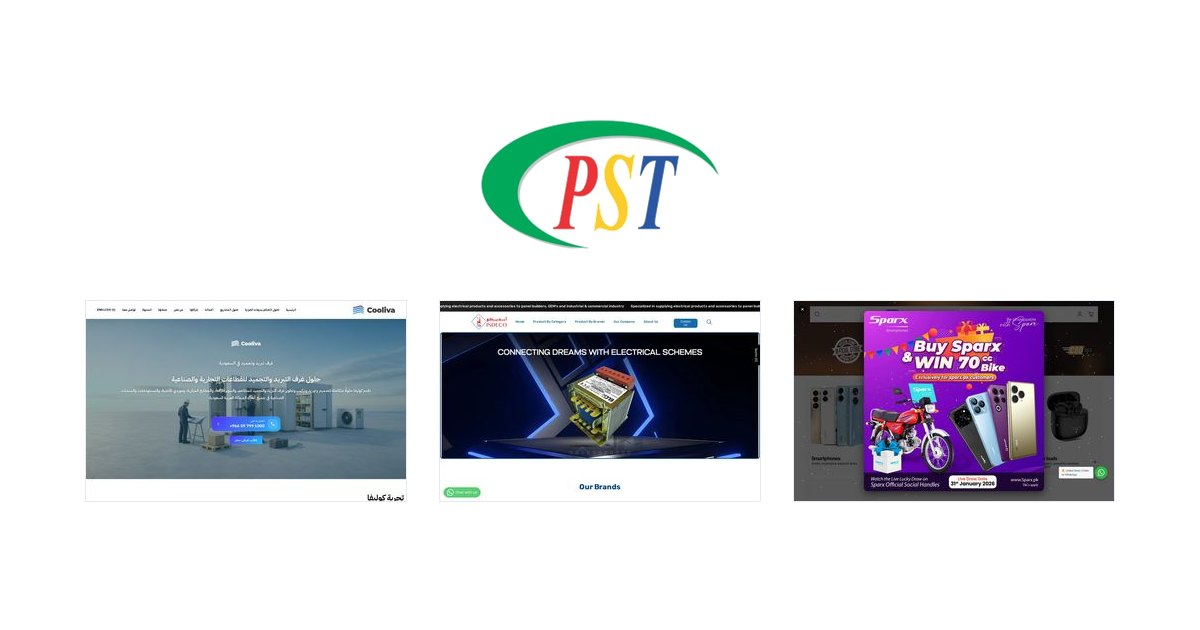
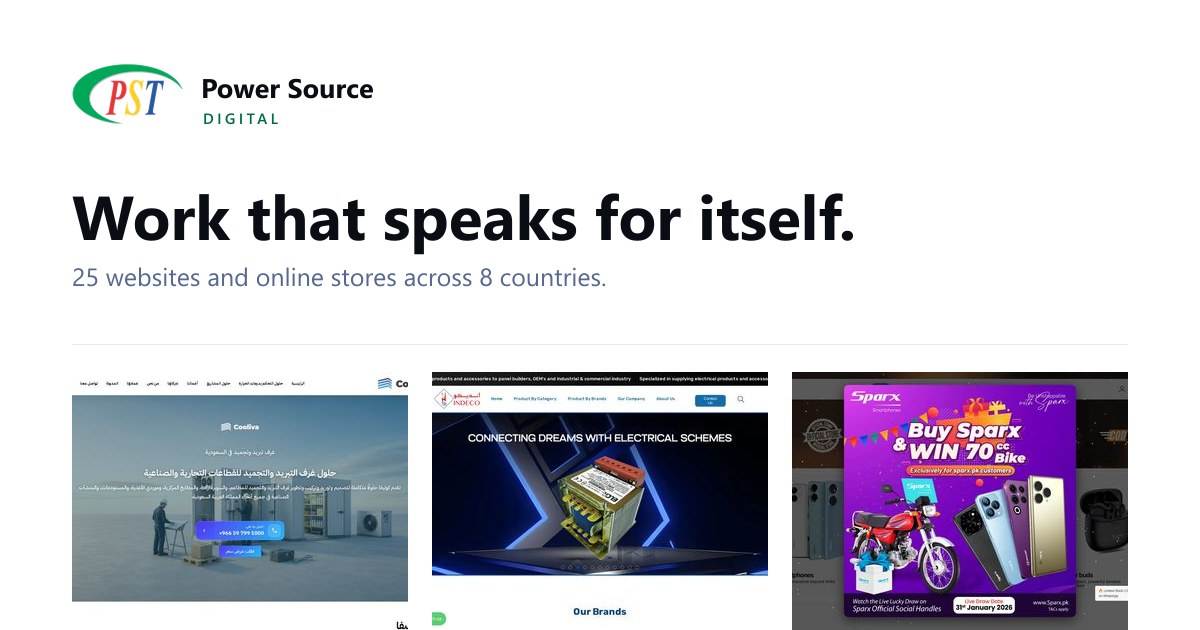
fix: share card, accessibility failures and LCP
Lighthouse on /portfolio/ mobile came back 87 performance and 96
accessibility, against a target of 95 and 100. Both failures were
mine, and the share card was worse than either.

The share card led with the group mark on its own over a mostly empty
frame. On the site that mark is never shown without the Power Source
Digital wordmark, and a share card is the one place it appears with no
surrounding context at all — so it now carries the full lockup, the
page's own headline, and a count read from portfolio.json rather than
typed in. Screenshots run off the bottom edge instead of floating in
the middle of the canvas.

The parent company is not named anywhere. The logo asset was still
called pst-logo.png, so its hashed URL shipped that name in the markup
of every page; it is now logo.png, and the two documentation files
that spelled the name out no longer do.

Accessibility: the filter chip counts used opacity 0.7, which fails
contrast on white — a dimmed colour is still a colour and has to pass
on its own. And the header mark carried alt text duplicating the
wordmark rendered right beside it, so a screen reader announced the
company name twice.

Performance: `90vw` overstated the feature image on phones so the
browser fetched a file wider than the slot it lands in, and the width
ladder started at 480. Three stylesheets were blocking first paint
because `inlineStylesheets: 'auto'` leaves anything over ~4kB as a
link; they are a few kB each, so they are inlined now.

diff --git a/src/data/portfolio-README.md b/src/data/portfolio-README.md
@@ -4,7 +4,8 @@
 
 Intentionally absent until they are public (add with the same shape):
 
-- Power Source Trading — powersourcetrading.com (Shopify store behind password, "Opening soon")
+- The parent company's own Shopify store (behind a password, "Opening soon"). Named
+  nowhere in this repo by request — ask before adding it.
 - Stone Paving Solutions — stonepavingsolutions.co.uk (bot protection blocked screenshot capture)
 - Teylor Fashion — teylorfashion.de (domain offline at capture time)
 

diff --git a/DECISIONS.md b/DECISIONS.md
@@ -412,7 +412,7 @@ Still absent, each blocked on content rather than code — `/work/` (needs real 
 `/pricing/` (needs real prices), `/blog/` (step 8), `/privacy/` and `/terms/` (need legal
 sign-off). None are linked from navigation, so nothing 404s.
 
-## 36. Power Source Trading removed sitewide
+## 36. The parent company is not named anywhere
 
 Every mention of the sister company is gone: the About page section, the footer line, the
 graphic-design FAQ answer, and the documentation.
